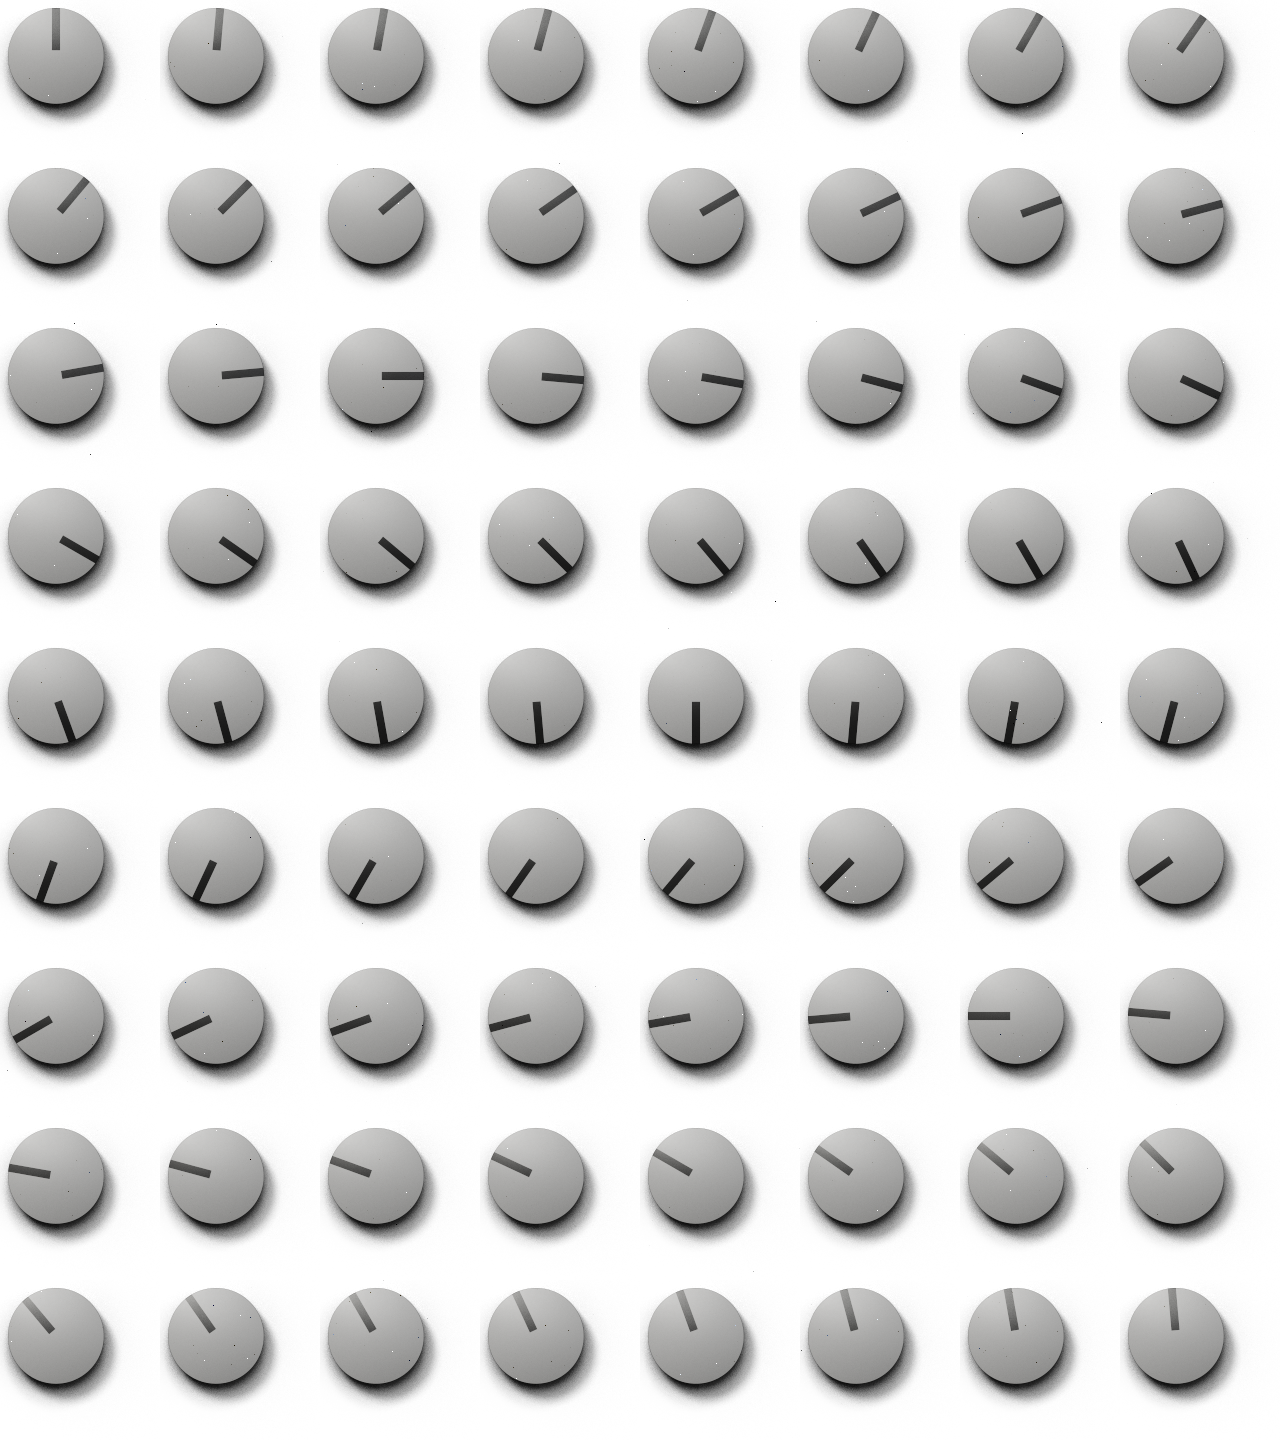
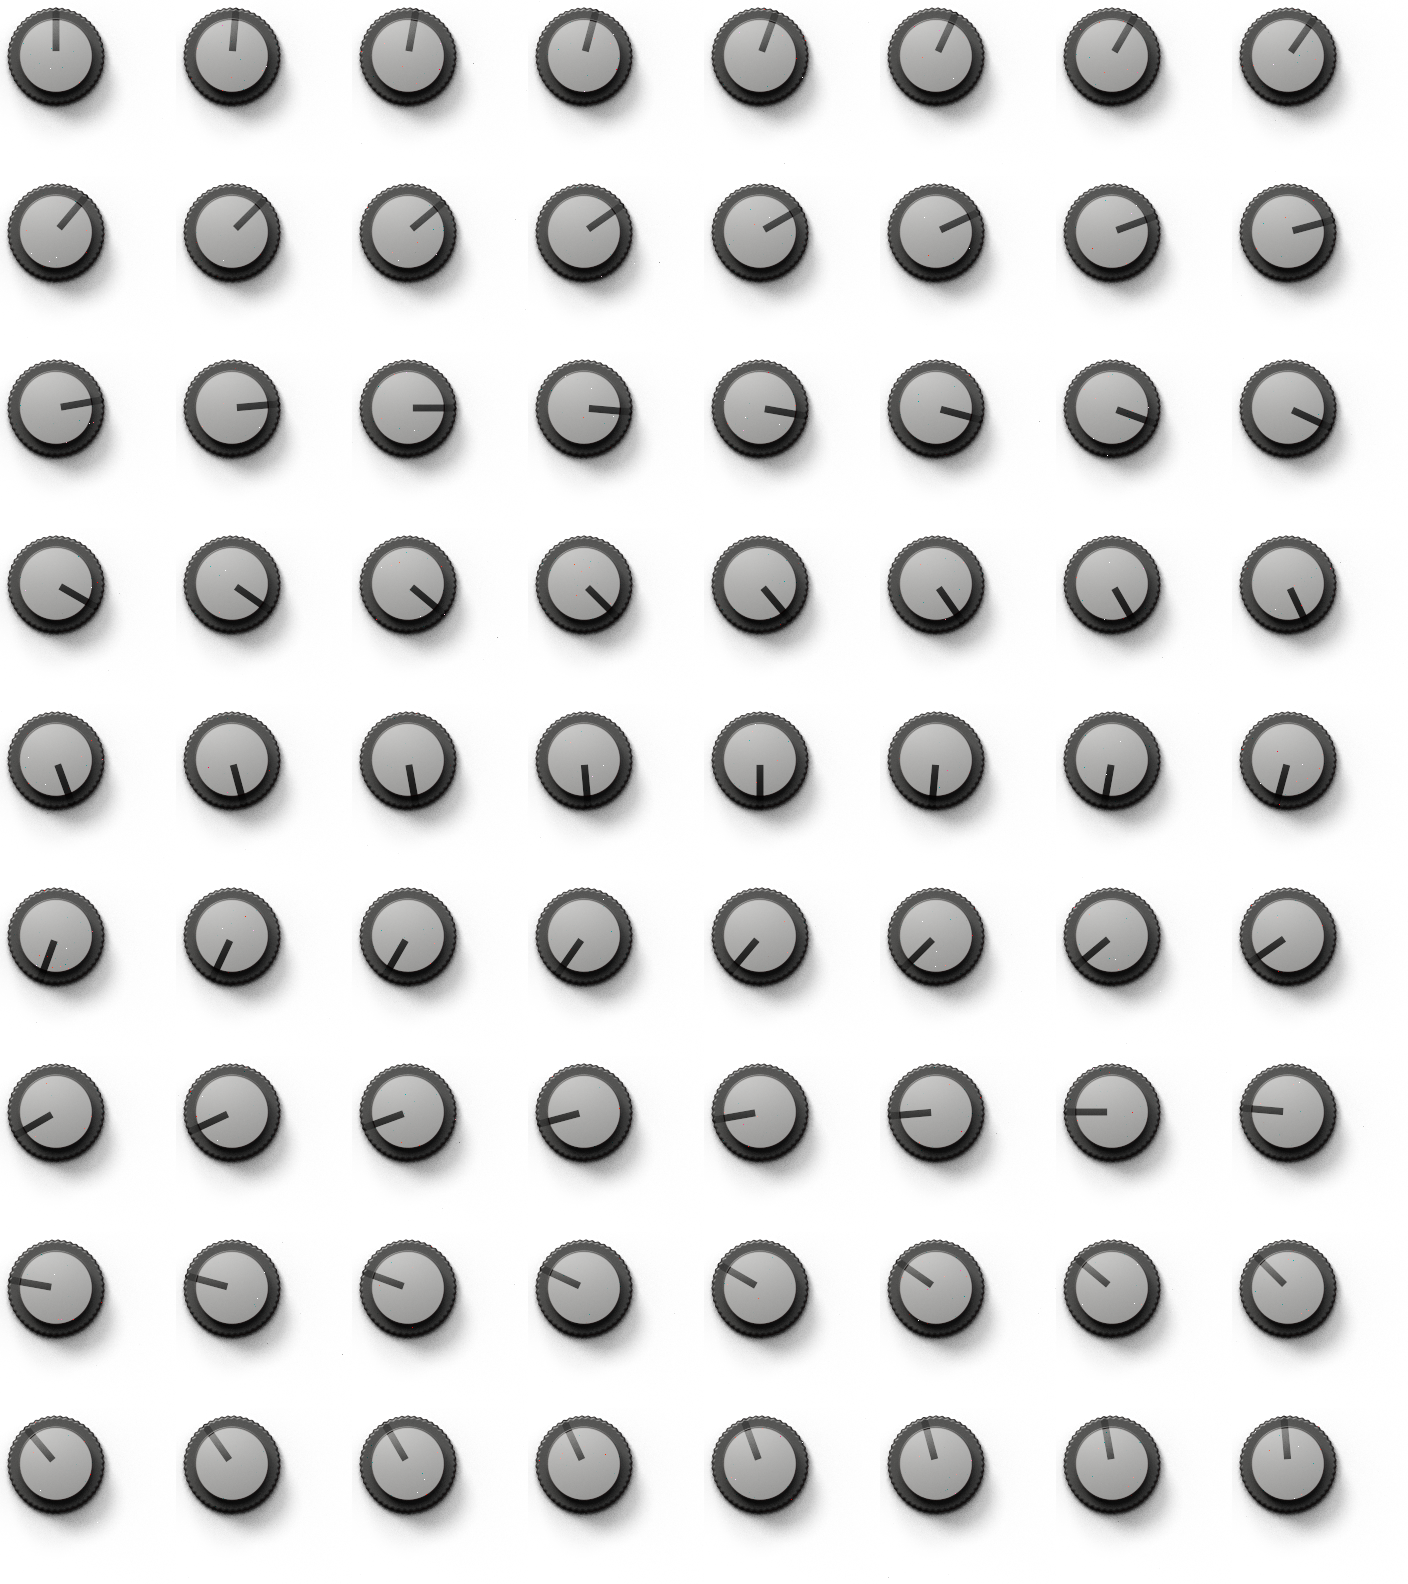
Red front, two-tier knobs, blue lamps, a backlit meter
The front in the red of the range. The knobs in two tiers as on the
original: a dark knurled skirt, a tall light grey cap with a ring turned in
its top, casting a longer shadow. IN and AUTO FADE light blue. The meter's
card is lit red from below by a lamp hidden under the window's lower edge
while the compressor is in (IN pressed, not bypassed by the host): two
photographs of the front, the lamp off and lit, the needle's root catching
the red. Tooltips and readout back in the range's red.

diff --git a/tools/photo.cpp b/tools/photo.cpp
@@ -169,7 +169,7 @@ float roundCone (V p, V a, V b, float r1, float r2)
 
 
 //==============================================================================
-enum class Material { panel, face, rim, knob, pointer, bezel, lens, lensLit, steel, blackSteel, hollow };
+enum class Material { panel, face, rim, knob, skirt, pointer, bezel, lens, lensLit, steel, blackSteel, hollow };
 
 /** A part standing on the front, in its own frame: its centre on the origin,
     the front at z = 0, z towards the camera, y down as on the screen. */
@@ -214,32 +214,44 @@ float raise (float d2, float z, float height, float r)
            + std::fmin (std::fmax (wx, wy), 0.0f) - r;
 }
 
-/** The console's knob: a squat cylinder of light grey plastic, its top
-    rounded off and gently domed, a black line from the middle out over the
-    edge and down the side. */
+/** The console's knob, in two tiers: a dark grey skirt at its foot, its
+    edge finely knurled, and standing on it a tall cap of light grey plastic,
+    its top rounded off, gently domed, a ring turned in it; a black line from
+    the middle out over the cap and across the skirt. */
 struct Knob final : Part
 {
-    Knob (float radius, float a) : R (radius), angle (a) { reach = R + 1.0f; top = h + 0.1f * R; }
+    Knob (float radius, float a) : R (radius), angle (a) { reach = 1.02f * R + 1.0f; top = capTop + 0.08f * R; }
 
-    float distance (V p) const override
+    float skirt (V p) const
     {
-        const auto full = h + 0.04f * R;
-        const auto body = roundCylinder (p - V { 0, 0, 0.5f * full }, R, 0.5f * full, 0.22f * R);
-        return std::fmax (body, length (p - V { 0, 0, full - 3.0f * R }) - 3.0f * R);
+        const Turned t (p, angle);
+        const auto knurl = 0.012f * R * std::cos (48.0f * t.theta);
+        return roundCylinder (p - V { 0, 0, 0.5f * skirtTop }, R + knurl, 0.5f * skirtTop, 0.06f * R);
     }
+
+    float cap (V p) const
+    {
+        constexpr float bottom = 0.1f;
+        auto d = roundCylinder (p - V { 0, 0, 0.5f * (bottom * R + capTop + 0.03f * R) }, 0.76f * R,
+                                0.5f * (capTop + 0.03f * R - bottom * R), 0.17f * R);
+        d = std::fmax (d, length (p - V { 0, 0, capTop + 0.03f * R - 3.0f * R }) - 3.0f * R);
+        return std::fmax (d, -torus (p - V { 0, 0, capTop + 0.015f * R }, 0.5f * R, 0.022f * R));
+    }
+
+    float distance (V p) const override { return smin (skirt (p), cap (p), 0.03f * R); }
 
     Material material (V p) const override
     {
         const Turned t (p, angle);
 
-        if (std::fabs (t.across) < 0.085f * R && t.along > 0.12f * R)
+        if (std::fabs (t.across) < 0.075f * R && t.along > 0.1f * R && p.z > 0.6f * skirtTop)
             return Material::pointer;
 
-        return Material::knob;
+        return cap (p) < skirt (p) ? Material::knob : Material::skirt;
     }
 
     float R, angle;
-    float h = 0.52f * R;
+    float skirtTop = 0.24f * R, capTop = 0.82f * R;
 };
 
 /** A square push button: a thick black bezel with sloping sides, and in it
@@ -359,6 +371,7 @@ struct Surface
 struct Scene
 {
     std::vector<const Part*> parts;
+    bool backlit = false;               // the meter's lamp, under the window, lit
     const std::vector<float>* ink = nullptr;
     int inkWidth = 0, inkHeight = 0;
 };
@@ -505,8 +518,8 @@ V studio (V d)
     return { v * 1.02f, v, v * 0.97f };
 }
 
-const V kPanelColour { 0.024f, 0.025f, 0.027f };   // the console's dark grey
-const V kInkColour { 0.74f, 0.74f, 0.72f };
+const V kPanelColour { 0.125f, 0.0145f, 0.017f };  // the red of the range, where the original is grey
+const V kInkColour { 0.78f, 0.77f, 0.75f };
 
 float inkAt (const Scene& scene, float x, float y)
 {
@@ -549,7 +562,7 @@ Surface surfaceAt (const Scene& scene, Hit& hit)
             const auto ink = inkAt (scene, p.x, p.y);
             s.albedo = mix (kPanelColour * (drift * rim), kInkColour, ink);
             s.f0 = grey (0.035f);
-            s.rough = 0.6f - 0.1f * ink;
+            s.rough = 0.48f - 0.1f * ink;
             break;
         }
 
@@ -562,6 +575,17 @@ Surface surfaceAt (const Scene& scene, Hit& hit)
             s.albedo = mix (grey (0.005f + 0.014f * sheen), kInkColour, ink);
             s.f0 = grey (0.04f);
             s.rough = 0.5f;
+
+            // The lamp hidden under the window's lower edge, in the middle:
+            // it lights the card red from below, brightest just over it,
+            // fading as it rises; the white scale catches it most.
+            if (scene.backlit)
+            {
+                const auto dx = (p.x - kBacklightX) / 95.0f, dy = (kMeterBottom + 6.0f - p.y) / 62.0f;
+                const auto reach = std::exp (-std::sqrt (dx * dx + dy * dy) * 2.2f);
+                const auto hot = std::exp (-std::sqrt (dx * dx + dy * dy) * 9.0f);
+                s.emission = V { 1.0f, 0.07f, 0.035f } * ((s.albedo.x * 3.4f + 0.2f) * reach) + V { 1.5f, 0.17f, 0.08f } * hot;
+            }
             break;
         }
 
@@ -571,9 +595,15 @@ Surface surfaceAt (const Scene& scene, Hit& hit)
             s.rough = 0.3f;
             break;
 
+        case Material::skirt:
+            s.albedo = grey (0.03f);
+            s.f0 = grey (0.04f);
+            s.rough = 0.38f;
+            break;
+
         case Material::knob:
-            // Light grey on top, darker down its side towards the front.
-            s.albedo = grey (0.05f + 0.12f * smooth (0.06f * kKnobRadius, 0.36f * kKnobRadius, p.z - (hit.part != nullptr ? hit.part->at.z : 0.0f)));
+            // Light grey on top, a little darker down its side.
+            s.albedo = grey (0.09f + 0.09f * smooth (0.3f * kKnobRadius, 0.7f * kKnobRadius, p.z));
             s.f0 = grey (0.04f);
             s.rough = 0.42f + 0.04f * noise (p * 0.8f);
             break;
@@ -598,14 +628,14 @@ Surface surfaceAt (const Scene& scene, Hit& hit)
 
         case Material::lensLit:
         {
-            // The lamp behind the frosted cap: white in the middle, warmer
-            // and yellow towards its edges.
+            // The lamp behind the frosted cap, blue as the range's lamps: pale
+            // in the middle, deeper towards its edges.
             const auto local = hit.part != nullptr ? p - hit.part->at : p;
             const auto edge = clamp01 (std::fmax (std::fabs (local.x), std::fabs (local.y)) / kCapHalf);
-            s.albedo = { 0.8f, 0.76f, 0.55f };
+            s.albedo = { 0.04f, 0.09f, 0.2f };
             s.f0 = grey (0.04f);
             s.rough = 0.35f;
-            s.emission = mix (V { 1.7f, 1.66f, 1.4f }, V { 1.6f, 1.1f, 0.18f }, smooth (0.35f, 0.95f, edge));
+            s.emission = mix (V { 0.12f, 0.52f, 1.55f }, V { 0.015f, 0.16f, 0.95f }, smooth (0.25f, 0.95f, edge));
             break;
         }
 
@@ -1006,8 +1036,8 @@ std::vector<float> printLettering()
                 const auto degrees = kRateMarkDegrees[i];
                 const auto end = i == 0 || i == kNumRateMarks - 1;
                 dot (around (c.x, c.y, degrees, 32.0f));
-                const auto at = around (c.x, c.y, degrees, end ? 38.0f : 43.0f);
-                text (String (kRateMarks[i], 0), at.x + (i == 0 ? -4.0f : end ? 4.0f : 0.0f), at.y + (end ? 4.0f : 0.0f), 12.5f);
+                const auto at = around (c.x, c.y, degrees, end ? 37.0f : 43.0f);
+                text (String (kRateMarks[i], 0), at.x + (i == 0 ? -7.0f : end ? 7.0f : 0.0f), at.y, 12.5f);
             }
         }
 
@@ -1025,7 +1055,7 @@ std::vector<float> printLettering()
         name ("scfilter", "SC FILTER -Hz", 45.0f);
         name ("headroom", "HR -dB", 29.0f);
         name ("mix", "MIX -%", 45.0f);
-        name ("rate", "RATE -S", 44.0f);
+        name ("rate", "RATE -S", 49.0f);
 
         // The ratio's centre mark, under its knob.
         g.fillRect (Rectangle<float> (127.2f, 530.0f, 1.6f, 6.0f));
@@ -1041,8 +1071,8 @@ std::vector<float> printLettering()
     return coverage;
 }
 
-/** The whole front, with its meter. */
-juce::Image photographFront (int samples, const std::vector<float>& ink)
+/** The whole front, with its meter, its lamp off or lit. */
+juce::Image photographFront (bool lit, int samples, const std::vector<float>& ink)
 {
     Scene scene;
     scene.ink = &ink;
@@ -1051,6 +1081,7 @@ juce::Image photographFront (int samples, const std::vector<float>& ink)
 
     const MeterCase meterCase;
     const ZeroScrew zeroScrew;
+    scene.backlit = lit;
     scene.parts = { &meterCase, &zeroScrew };
 
     const int w = scene.inkWidth, h = scene.inkHeight;
@@ -1066,7 +1097,7 @@ juce::Image photographFront (int samples, const std::vector<float>& ink)
 
             for (int s = 0; s < side * side; ++s)
             {
-                Rng rng (seedOf (x, y, s, 1));
+                Rng rng (seedOf (x, y, s, lit ? 2 : 1));
                 const auto px = ((float) x + ((float) (s % side) + rng.next()) / (float) side) / (float) kPhotoScale;
                 const auto py = ((float) y + ((float) (s / side) + rng.next()) / (float) side) / (float) kPhotoScale;
                 sum = sum + trace (scene, { px, py, 200.0f }, { 0, 0, -1 }, rng);
@@ -1218,9 +1249,15 @@ int main (int argc, char** argv)
     if (wanted ("front"))
     {
         const auto samples = std::max (1, (int) std::lround (64.0f * quality));
-        save (photographFront (samples, printLettering()), folder.getChildFile ("front.jpg"));
-        std::printf ("front.jpg (%.0f s)\n", elapsed());
-        std::fflush (stdout);
+        const auto ink = printLettering();
+
+        for (const auto lit : { false, true })
+        {
+            const auto name = lit ? "front-on.jpg" : "front-off.jpg";
+            save (photographFront (lit, samples, ink), folder.getChildFile (name));
+            std::printf ("%s (%.0f s)\n", name, elapsed());
+            std::fflush (stdout);
+        }
     }
 
     for (const auto& run : kRuns)
@@ -1236,7 +1273,7 @@ int main (int argc, char** argv)
 
     if (only.contains ("preview"))
     {
-        auto front = juce::ImageCache::getFromFile (folder.getChildFile ("front.jpg"));
+        auto front = juce::ImageCache::getFromFile (folder.getChildFile ("front-on.jpg"));
         juce::Image preview (juce::Image::RGB, front.getWidth(), front.getHeight(), false, juce::SoftwareImageType());
         juce::Graphics g (preview);
         g.drawImageAt (front, 0, 0);

diff --git a/Source/PluginEditor.cpp b/Source/PluginEditor.cpp
@@ -35,7 +35,8 @@ namespace
 GlueEditor::GlueEditor (GlueProcessor& p)
     : AudioProcessorEditor (&p),
       processor (p),
-      frontPhoto (photo ("front.jpg"))
+      frontOff (photo ("front-off.jpg")),
+      frontOn (photo ("front-on.jpg"))
 {
     setLookAndFeel (&lookAndFeel);
 
@@ -169,6 +170,8 @@ void GlueEditor::timerCallback()
     for (const auto& part : parts)
         values.push_back (processor.apvts.getParameter (part.control->id)->getValue());
 
+    values.push_back (processor.apvts.getParameter ("bypass")->getValue());
+
     if (now != shown || text != readout || values != shownValues)
     {
         shown = now;
@@ -182,7 +185,7 @@ void GlueEditor::timerCallback()
 void GlueEditor::paintFront (Graphics& g)
 {
     g.setImageResamplingQuality (Graphics::highResamplingQuality);
-    g.drawImage (frontPhoto, Rectangle<float> ((float) kWidth, (float) kHeight));
+    g.drawImage (isBacklit() ? frontOn : frontOff, Rectangle<float> ((float) kWidth, (float) kHeight));
 
     paintNeedle (g);
 
@@ -222,7 +225,7 @@ void GlueEditor::paintFront (Graphics& g)
         {
             const auto lit = k == 1;
             const auto name = String (c.name);
-            g.setColour (Colour (lit ? 0xd04a3e22 : 0xd0262626));
+            g.setColour (Colour (lit ? 0xd8081830 : 0xd0262626));
             g.setFont (displayFont (name.length() > 3 ? 11.0f : 12.5f));
             g.drawFittedText (name.replace (" ", "\n"), Rectangle<float> (2.0f * layout::kCapHalf - 8.0f, 2.0f * layout::kCapHalf - 8.0f)
                                                            .withCentre ({ c.x, c.y + (lit ? 1.0f : 0.0f) }).toNearestInt(),
@@ -249,8 +252,19 @@ void GlueEditor::paintNeedle (Graphics& g)
 
     g.setColour (Colours::black.withAlpha (0.5f));
     g.fillPath (needle, AffineTransform::translation (2.5f, 3.5f));
-    g.setColour (Colour (0xffe6e4dc));
+
+    // Backlit, its root catches the lamp's red from below.
+    const Colour white (0xffe6e4dc);
+    g.setGradientFill (ColourGradient (isBacklit() ? Colour (0xffff7a66) : white, pivot.getPointOnCircumference (kNeedleLength * 0.45f, angle),
+                                       white, tip, false));
     g.fillPath (needle);
+}
+
+bool GlueEditor::isBacklit() const
+{
+    // The meter's lamp is lit while the compressor is in: IN pressed, and the host not bypassing it.
+    auto& state = processor.apvts;
+    return state.getRawParameterValue ("in")->load() > 0.5f && state.getRawParameterValue ("bypass")->load() < 0.5f;
 }
 
 void GlueEditor::paintReadout (Graphics& g)
@@ -271,7 +285,7 @@ void GlueEditor::paintReadout (Graphics& g)
 
     g.setColour (Colours::black.withAlpha (0.4f));
     g.fillRoundedRectangle (pill.translated (0.0f, 2.0f), pill.getHeight() * 0.5f);
-    g.setColour (Colour (0xe6141414));
+    g.setColour (Colour (0xe6140c0d));
     g.fillRoundedRectangle (pill, pill.getHeight() * 0.5f);
     g.setColour (Colours::white.withAlpha (0.14f));
     g.drawRoundedRectangle (pill, pill.getHeight() * 0.5f, 1.0f);

diff --git a/Source/ui/Layout.h b/Source/ui/Layout.h
@@ -73,7 +73,7 @@ constexpr Frame frameOf (Kind kind)
 {
     switch (kind)
     {
-        case Kind::knob:   return { 28.0f, 52.0f };
+        case Kind::knob:   return { 28.0f, 60.0f };
         case Kind::trim:   return { 10.0f, 14.0f };
         case Kind::button: return { 49.0f, 66.0f };
     }
@@ -90,6 +90,10 @@ constexpr float kZeroScrewX = 210.0f, kZeroScrewY = 202.0f, kZeroScrewRadius = 9
 constexpr float kPivotX = 211.0f, kPivotY = 194.0f, kNeedleLength = 98.0f;
 constexpr float kTickInner = 82.0f, kTickOuter = 89.0f, kNumberRadius = 105.0f;
 constexpr float kMeterMaxDb = 20.0f, kMeterHalfDegrees = 44.0f;
+
+// The lamp hidden under the window's lower edge, in the middle: it lights the
+// card red from below while the compressor is in.
+constexpr float kBacklightX = kPivotX;
 
 inline float meterDegrees (float db)
 {

diff --git a/Source/PluginEditor.h b/Source/PluginEditor.h
@@ -49,6 +49,7 @@ private:
     void paintFront (Graphics&);
     void paintNeedle (Graphics&);
     void paintReadout (Graphics&);
+    bool isBacklit() const;
 
     GlueProcessor& processor;
     theme::GlueLookAndFeel lookAndFeel;
@@ -62,7 +63,8 @@ private:
     std::vector<std::unique_ptr<AudioProcessorValueTreeState::SliderAttachment>> sliderAttachments;
     std::vector<std::unique_ptr<AudioProcessorValueTreeState::ButtonAttachment>> buttonAttachments;
 
-    Image frontPhoto;
+    /** The front, the meter's lamp off and lit. */
+    Image frontOff, frontOn;
 
     /** What the parts were last drawn at: a change is drawn again. */
     std::vector<float> shownValues;

diff --git a/Source/ui/Theme.cpp b/Source/ui/Theme.cpp
@@ -40,7 +40,7 @@ void GlueLookAndFeel::drawTooltip (Graphics& g, const String& text, int width, i
 {
     const auto bounds = Rectangle<float> (0.0f, 0.0f, (float) width, (float) height).reduced (0.5f);
 
-    g.setGradientFill (ColourGradient (Colour (0xff2e2d2b), 0.0f, 0.0f, Colour (0xff161514), 0.0f, (float) height, false));
+    g.setGradientFill (ColourGradient (Colour (0xff3d0911), 0.0f, 0.0f, Colour (0xff1c0508), 0.0f, (float) height, false));
     g.fillRoundedRectangle (bounds, 7.0f);
     g.setColour (ember.withAlpha (0.6f));
     g.drawRoundedRectangle (bounds, 7.0f, 1.0f);

diff --git a/Source/ui/Theme.h b/Source/ui/Theme.h
@@ -8,7 +8,7 @@ namespace onirique::theme
 
 using juce::Colour;
 
-inline const Colour ember   { 0xffe0b25a };
+inline const Colour ember   { 0xffe23444 };
 inline const Colour mist    { 0xfff6eeee };
 
 inline juce::Font displayFont (float height, bool heavy = true)

diff --git a/README.md b/README.md
@@ -17,9 +17,15 @@ crémeux quand on le pousse.
 - **MIX** pour la compression parallèle, et l'**AUTO FADE** de la console, sur
   1 à 60 secondes.
 
-La façade est une photographie : la façade, le VU et chaque pièce sont modélisés
-en 3D et rendus par lancer de rayons (`tools/photo.cpp`). Le plugin ne fait
-qu'afficher ces images (`Resources/photo`) et dessine l'aiguille du VU par-dessus.
+La façade reprend celle de l'original point par point, peinte du rouge de la
+gamme : VU noir à graduations blanches, potards à deux étages (jupe sombre,
+chapeau gris clair), boutons à gros cadre noir qui s'allument en bleu, et un VU
+rétroéclairé en rouge par une petite lampe cachée sous le bas de sa fenêtre,
+allumée tant que le compresseur est en service (IN enfoncé, plugin non
+bypassé). C'est une photographie : la façade et chaque pièce
+sont modélisées en 3D et rendues par lancer de rayons (`tools/photo.cpp`). Le
+plugin ne fait qu'afficher ces images (`Resources/photo`) et dessine l'aiguille
+du VU par-dessus.
 
 VST3 (Windows, macOS) et Audio Unit (macOS). Mono ou stéréo. Traitement à
 fréquence doublée : la latence est annoncée à l'hôte.
